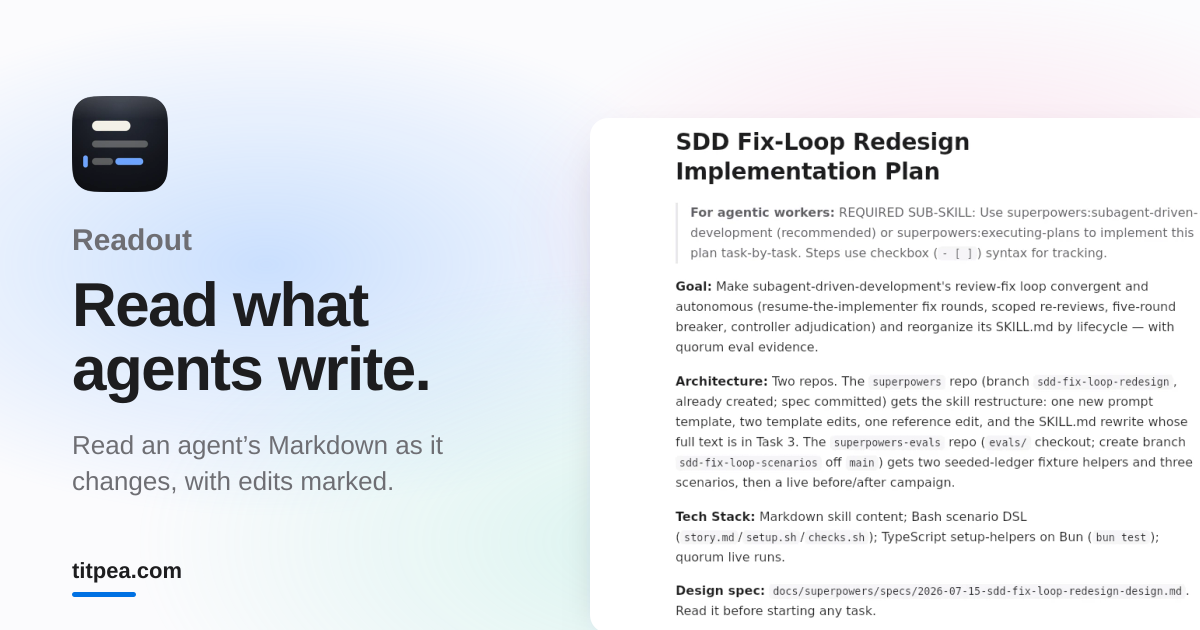
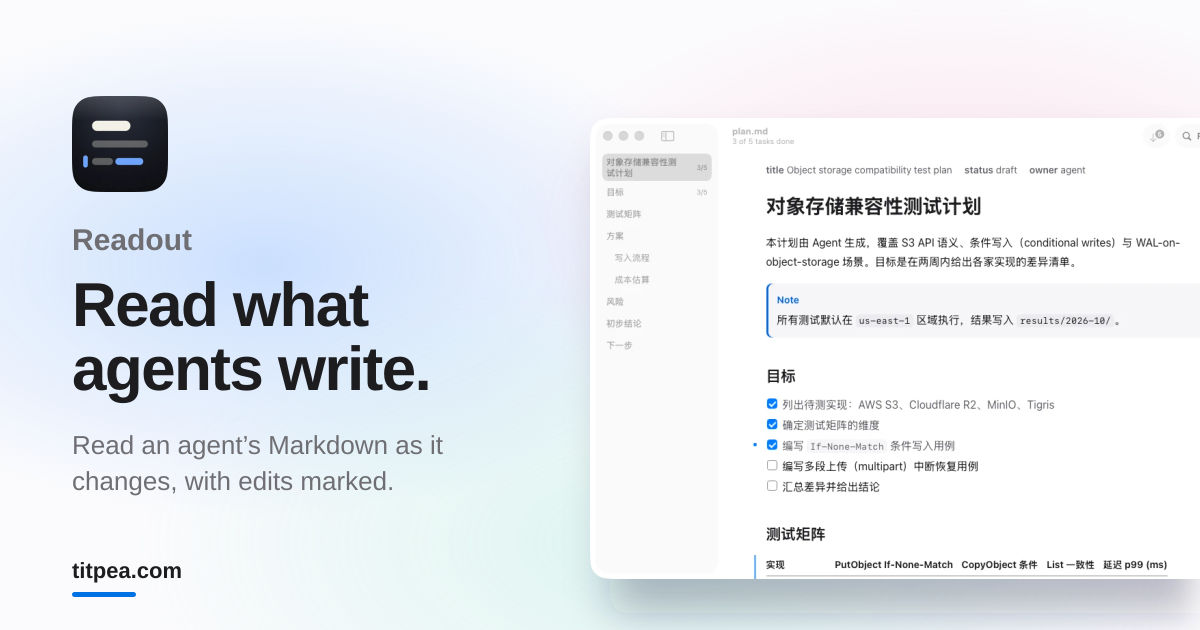
Readout: hero is the real app window from the repo (docs/screenshot.png)
Replaces the test-suite renders in the hero, which showed no window,
outline or change marks. The renders stay in the dark-mode showcase.

Claude-Session: https://claude.ai/code/session_01JmaFxrCaTr7J8dy17sm4dB

diff --git a/src/content/products/readout.ts b/src/content/products/readout.ts
@@ -34,14 +34,14 @@ export default defineProduct({
     visual: {
       kind: "screenshot",
       label: "Readout",
-      frame: "narrow",
+      frame: "wide",
       image: {
-        src: "/assets/readout-plan-en.webp",
-        alt: "Readout’s reading view at the top of an implementation plan written for coding agents (from obra/superpowers): the title, a quoted note for agentic workers, then Goal, Architecture, Tech Stack and Design spec paragraphs with inline code.",
-        width: 900,
-        height: 662,
+        src: "/assets/readout-window.webp",
+        alt: "A Readout window: an agent’s plan with its outline and task counts in the sidebar, and unread changes marked in the margin.",
+        width: 1024,
+        height: 674,
       },
-      caption: "Readout’s reading view, rendered in WebKit by its own test suite; the window around it is not shown.",
+      caption: "Readout on macOS, from its repository.",
     },
     showcases: [
       {
@@ -147,14 +147,14 @@ export default defineProduct({
     visual: {
       kind: "screenshot",
       label: "Readout",
-      frame: "narrow",
+      frame: "wide",
       image: {
-        src: "/assets/readout-plan-zh.webp",
-        alt: "Readout 的阅读视图，显示一份中英混排的 Agent 实现计划（来自 zkywsg/Daily-LLM）。可以看到标题、引用说明、Goal 等段落、任务复选框和代码块。",
-        width: 900,
-        height: 806,
+        src: "/assets/readout-window.webp",
+        alt: "Readout 窗口：一份 Agent 写的计划，侧栏是大纲和各节任务进度，页边标出未读的改动。",
+        width: 1024,
+        height: 674,
       },
-      caption: "Readout 的阅读视图，由它自己的测试在 WebKit 中渲染，未包含窗口外框。",
+      caption: "macOS 上的 Readout，图片来自它的仓库。",
     },
     showcases: [
       {
